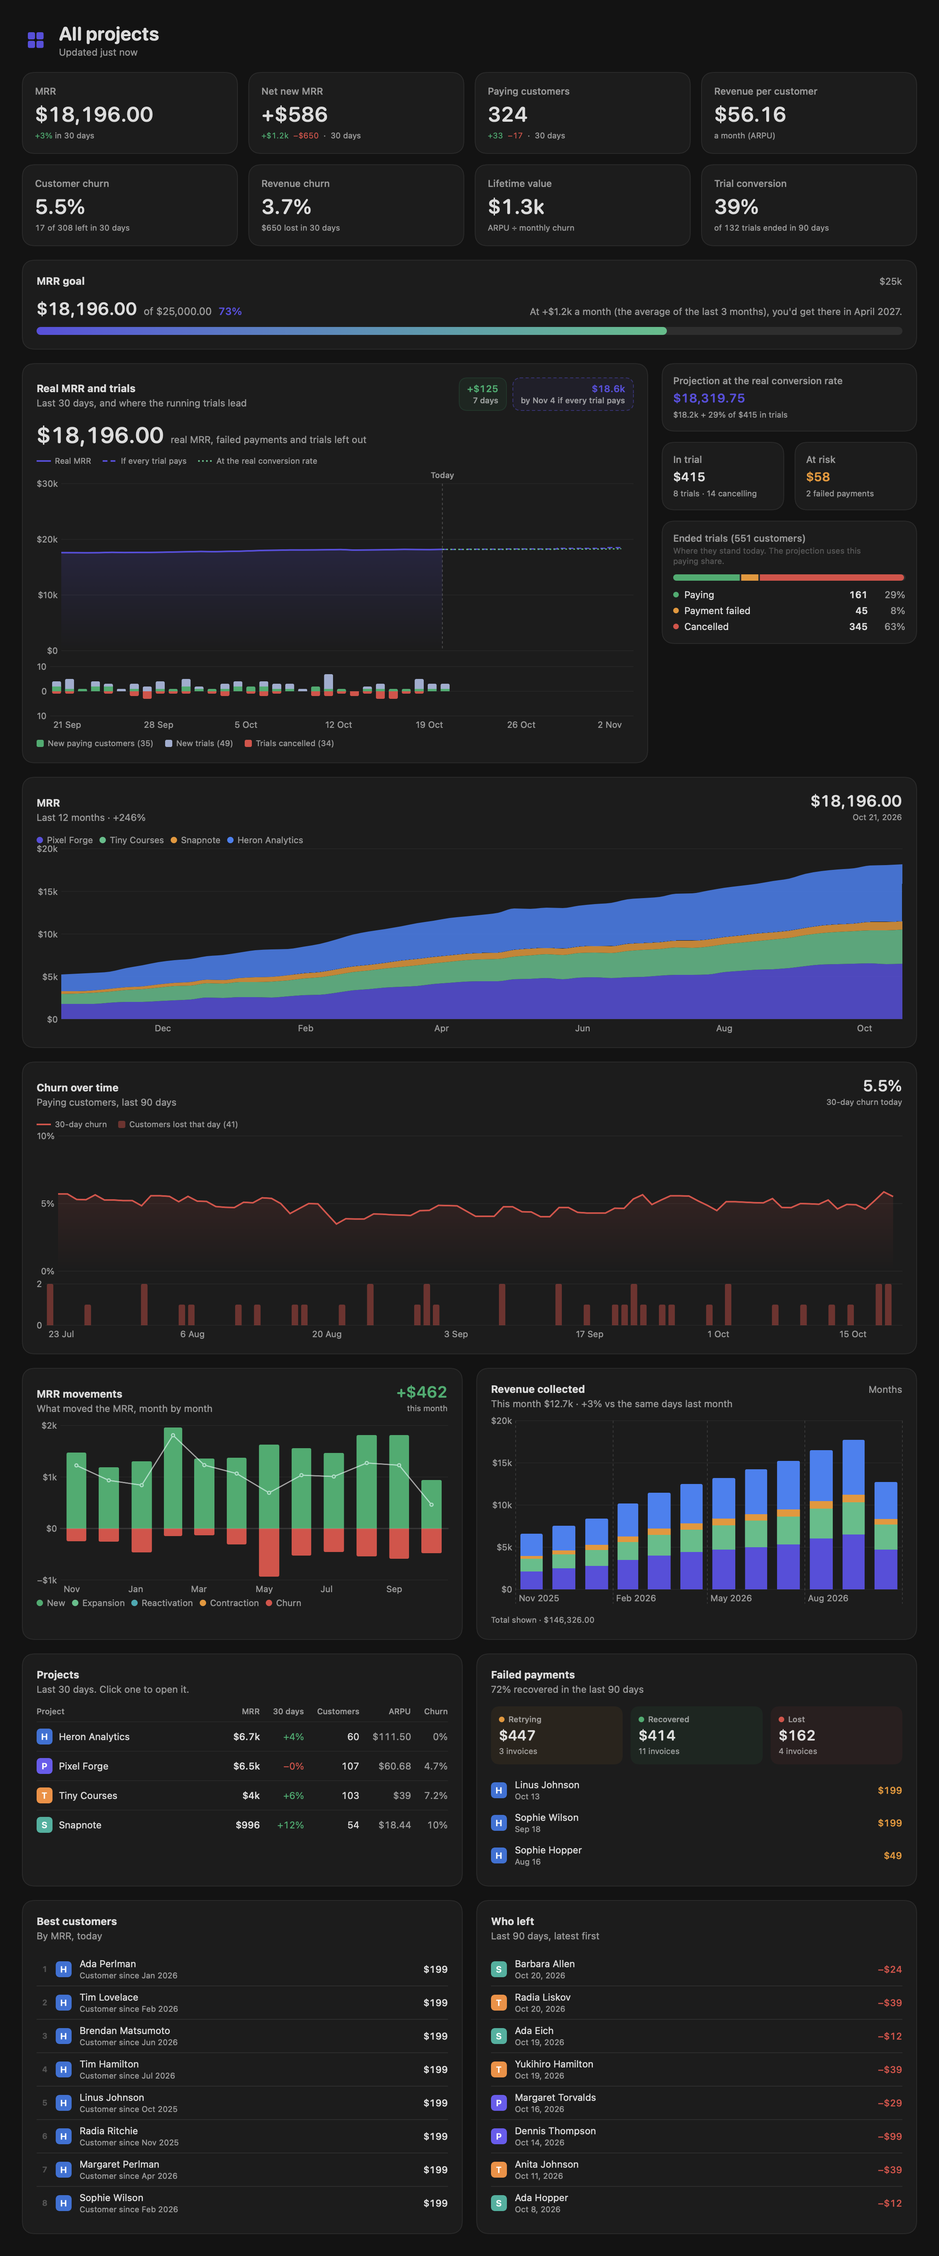
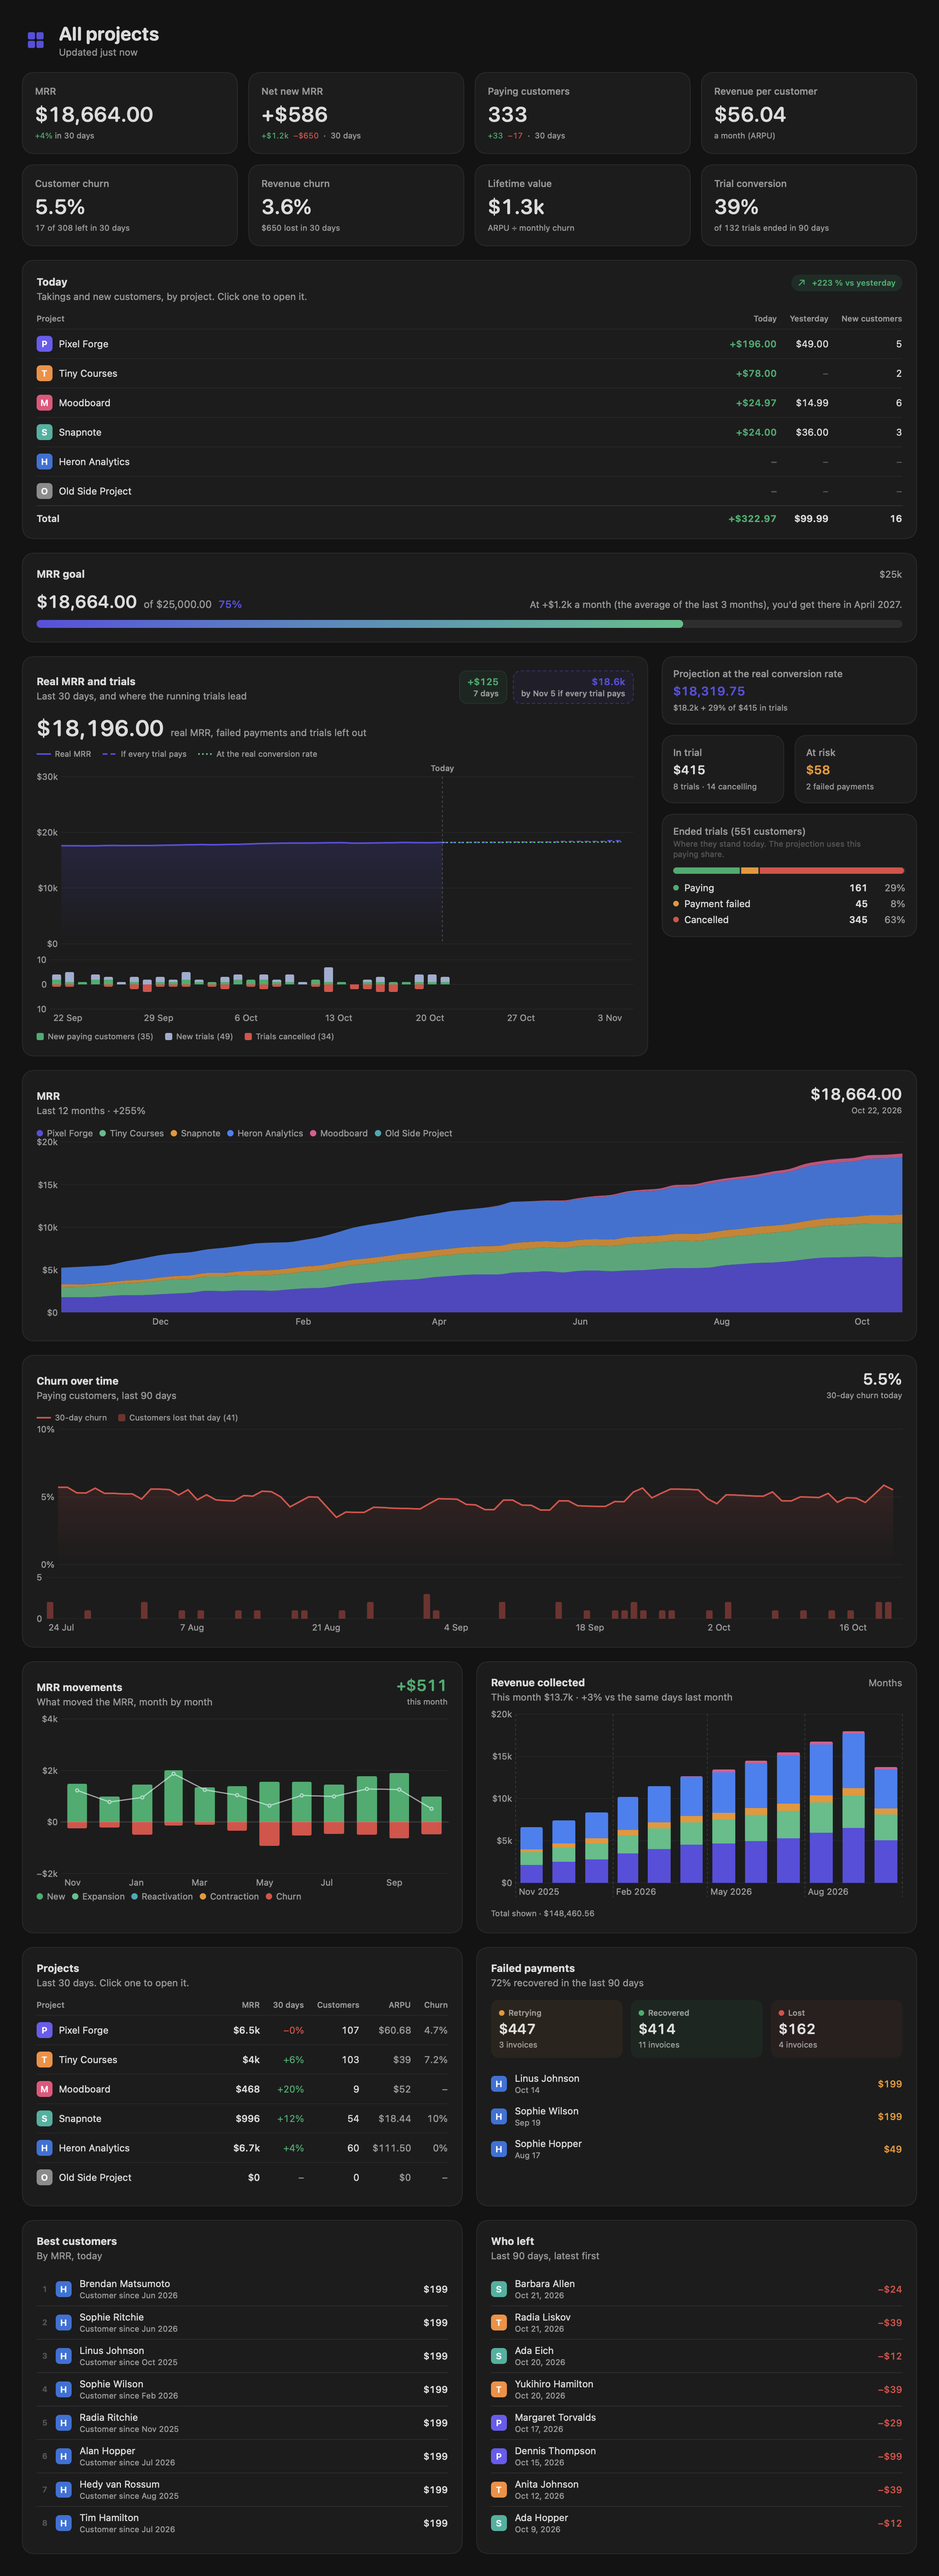
Projects by takings everywhere, quiet projects folded, RevenueCat in the dashboard's history, new screenshots

diff --git a/Sources/Model.swift b/Sources/Model.swift
@@ -144,6 +144,11 @@ final class Model: ObservableObject {
     var mrrTotal: [String: Int] { sum(active.compactMap { mrr[$0.id] }) }
     var active: [Account] { accounts.filter(\.enabled) }
 
+    /// Nothing in 30 days, no new customer today and no MRR: folded away in the panel until it moves.
+    func isQuiet(_ a: Account) -> Bool {
+        convert(monthTotal(a)) == 0 && newCustomers(a, 0) == 0 && convert(mrr[a.id] ?? [:]) == 0 && errors[a.id] == nil
+    }
+
     /// The watched projects, most money first: the ones that moved today or yesterday, by today's takings, then
     /// yesterday's, then the last 30 days. Projects with nothing go to the bottom, in the settings' order.
     var byTakings: [Account] {
@@ -363,6 +368,31 @@ final class Model: ObservableObject {
         if prefs.kinds.contains(.sale) { notify(act, a) }
     }
 
+    /// RevenueCat projects' MRR day by day over a year, minor units of the display currency: the dashboard's curve.
+    @Published var rcMrr: [UUID: [Date: Int]] = [:]
+    private var rcHistoryRead: [UUID: Date] = [:]
+
+    /// A year of revenue and MRR from RevenueCat's charts, for the dashboard; read again after 10 minutes.
+    private func loadRevenueCatHistory(_ a: Account, force: Bool) async {
+        let id = a.id.uuidString
+        if rcMrr[a.id] == nil, let cached = Disk.read("history/rc-\(id).json", as: RevenueCatHistory.self), cached.currency == currency {
+            rcMrr[a.id] = cached.mrr; revenue[a.id] = cached.revenue.mapValues { [currency: $0] }
+        }
+        if !force, let t = rcHistoryRead[a.id], Date().timeIntervalSince(t) < 600 { return }
+        guard let key = Keychain.load(a.id) else { return }
+        let c = RevenueCatClient(key: key), cur = currency
+        do {
+            let rev = try await c.daily("revenue", a.revenueCatProject, days: 366, currency: cur).mapValues { Int(($0 * 100).rounded()) }
+            let m = try await c.daily("mrr", a.revenueCatProject, days: 366, currency: cur).mapValues { Int(($0 * 100).rounded()) }
+            revenue[a.id] = rev.mapValues { [cur: $0] }
+            rcMrr[a.id] = m
+            rcHistoryRead[a.id] = Date()
+            if persist { Disk.write(RevenueCatHistory(currency: cur, revenue: rev, mrr: m), "history/rc-\(id).json") }
+        } catch {
+            errors[a.id] = error.localizedDescription
+        }
+    }
+
     /// Revenue and new customers for the last 30 days, then the MRR, subscribers and trials, in the display currency.
     private func refreshRevenueCat(_ a: Account) async {
         guard let key = Keychain.load(a.id) else { errors[a.id] = String(localized: "Key not found in the Keychain"); return }
@@ -373,7 +403,10 @@ final class Model: ObservableObject {
             signups[a.id] = (try? await c.daily("customers_new", p, days: 2, currency: cur))?.mapValues { Int($0.rounded()) } ?? [:]
             let o = try await c.overview(p, currency: cur)
             var m = MrrSnapshot()
-            m.real = [cur: Int(((o["mrr"] ?? 0) * 100).rounded())]
+            // The overview rounds the MRR to whole units: the MRR chart's last day has the cents
+            let chart = (try? await c.daily("mrr", p, days: 2, currency: cur)) ?? [:]
+            let mrrValue = chart.max(by: { $0.key < $1.key })?.value ?? o["mrr"] ?? 0
+            m.real = [cur: Int((mrrValue * 100).rounded())]
             m.activeCount = Int(o["active_subscriptions"] ?? 0)
             m.trialCount = Int(o["active_trials"] ?? 0)
             mrr[a.id] = m.real
@@ -431,6 +464,7 @@ final class Model: ObservableObject {
         rebuildDashboard()
         await refreshRates()
         for a in active {
+            if a.isRevenueCat { await loadRevenueCatHistory(a, force: force); rebuildDashboard(); continue }
             guard let c = client(a) else { continue }
             let id = a.id.uuidString
             do {
@@ -468,7 +502,7 @@ final class Model: ObservableObject {
     /// One project's MRR now, from the same subscriptions as the dashboard (on disk from the last run), so it's right
     /// from the first second; the menu's own figure until they're read.
     func mrrNow(_ a: Account) -> Int {
-        guard let f = facts[a.id] else { return convert(mrr[a.id] ?? [:]) }
+        guard !a.isRevenueCat, let f = facts[a.id] else { return convert(mrr[a.id] ?? [:]) }
         let now = Date()
         return f.filter { $0.pays(at: now) }.reduce(0) { $0 + convert($1.monthly, $1.currency) }
     }
@@ -486,8 +520,10 @@ final class Model: ObservableObject {
 
     func rebuildDashboard() {
         let picked = dashboardAccounts
-        dashboard = Analytics.build(accounts: picked, all: picked, facts: facts, revenue: revenue,
-                                    failed: failedInvoices, months: dashboardMonths, convert: convert)
+        let rc = Dictionary(uniqueKeysWithValues: picked.filter(\.isRevenueCat).map { a in
+            (a.id, Analytics.Outside(mrr: rcMrr[a.id] ?? [:], subscribers: mrrDetail[a.id]?.activeCount ?? 0)) })
+        dashboard = Analytics.build(accounts: picked, all: byTakings.filter { a in picked.contains { $0.id == a.id } }, facts: facts, revenue: revenue,
+                                    failed: failedInvoices, months: dashboardMonths, convert: convert, outside: rc)
         projection = Projection.build(accounts: picked, facts: facts, snapshots: mrrDetail, convert: convert)
     }
 

diff --git a/Sources/Views.swift b/Sources/Views.swift
@@ -17,6 +17,7 @@ struct MenuPanel: View {
     /// The header unfolds into today's figures project by project; remembered between openings.
     @AppStorage("todayOpen") private var todayOpen = false
     @State private var sectionsHeight: CGFloat = 600
+    @AppStorage("quietOpen") private var quietOpen = false
 
     var body: some View {
         // The dashboard's look: white cards on a light grey background
@@ -60,12 +61,19 @@ struct MenuPanel: View {
                         Text("MRR").font(.caption).foregroundStyle(.tertiary)
                     }
                     .padding(.horizontal, 14).padding(.top, 12).padding(.bottom, 4)
-                    ForEach(Array(model.byTakings.enumerated()), id: \.element.id) { i, a in
+                    let quiet = model.byTakings.filter(model.isQuiet)
+                    let shown = model.byTakings.filter { !model.isQuiet($0) } + (quietOpen ? quiet : [])
+                    ForEach(Array(shown.enumerated()), id: \.element.id) { i, a in
                         if i > 0 { Hairline().padding(.leading, 54) }
                         ProjectRow(model: model, account: a)
                             .contentShape(Rectangle())
                             .onTapGesture { openDashboard(a.id) }
                             .help(String(localized: "Open this project in the dashboard"))
+                    }
+                    if !quiet.isEmpty {
+                        Hairline().padding(.leading, 14)
+                        QuietToggle(model: model, quiet: quiet, open: $quietOpen)
+                            .font(.caption).padding(.horizontal, 14).padding(.vertical, 9)
                     }
                 }
                 .padding(.bottom, 4)
@@ -484,8 +492,11 @@ struct WeekChart: View {
 /// Today, yesterday and new customers for each project: what the header's totals are made of.
 struct TodayBreakdown: View {
     @ObservedObject var model: Model
+    @AppStorage("quietOpen") private var quietOpen = false
     var body: some View {
-        let rows = model.byTakings
+        let all = model.byTakings
+        let quiet = all.filter(model.isQuiet)
+        let rows = all.filter { !model.isQuiet($0) } + (quietOpen ? quiet : [])
         Grid(alignment: .trailing, horizontalSpacing: 14, verticalSpacing: 8) {
             GridRow {
                 Text("Project").gridColumnAlignment(.leading)
@@ -510,7 +521,36 @@ struct TodayBreakdown: View {
                 }
                 .font(.caption).monospacedDigit()
             }
+            if !quiet.isEmpty {
+                GridRow {
+                    QuietToggle(model: model, quiet: quiet, open: $quietOpen, size: 16).gridCellColumns(4)
+                }
+                .font(.caption)
+            }
         }
+    }
+}
+
+/// The projects with nothing in 30 days, folded into one line; one that sells comes out by itself.
+struct QuietToggle: View {
+    @ObservedObject var model: Model
+    let quiet: [Account]
+    @Binding var open: Bool
+    var size: CGFloat = 18
+
+    var body: some View {
+        HStack(spacing: 7) {
+            HStack(spacing: -size * 0.3) {
+                ForEach(quiet.prefix(5)) { a in AccountIcon(model: model, account: a, size: size) }
+            }
+            Text(String(format: String(localized: quiet.count > 1 ? "%lld quiet projects" : "%lld quiet project"), quiet.count))
+                .foregroundStyle(.secondary)
+            Spacer()
+            Image(systemName: open ? "chevron.up" : "chevron.down").font(.system(size: 9, weight: .semibold)).foregroundStyle(.tertiary)
+        }
+        .contentShape(Rectangle())
+        .onTapGesture { withAnimation(.easeOut(duration: 0.15)) { open.toggle() } }
+        .help(String(localized: "Nothing collected in 30 days, no MRR. A project that sells leaves this list by itself."))
     }
 }
 

diff --git a/Sources/History.swift b/Sources/History.swift
@@ -159,9 +159,18 @@ struct DashboardData {
 enum Analytics {
     private struct Item { let account: UUID; let key: String; let monthly: Int; let fact: SubFact }
 
+    /// A project whose subscriptions live outside Stripe (RevenueCat): its MRR by day and its subscribers now.
+    struct Outside {
+        let mrr: [Date: Int]
+        let subscribers: Int
+        /// The MRR on the last known day at or before `t`.
+        func at(_ t: Date) -> Int { mrr.filter { $0.key <= t }.max(by: { $0.key < $1.key })?.value ?? 0 }
+    }
+
     /// `accounts` is what the window looks at (one project or all); `all` feeds the per-project table.
     static func build(accounts: [Account], all: [Account], facts: [UUID: [SubFact]], revenue: [UUID: [Date: [String: Int]]],
-                      failed: [UUID: [FailedInvoice]], months: Int, convert: (Int, String) -> Int, now: Date = Date()) -> DashboardData {
+                      failed: [UUID: [FailedInvoice]], months: Int, convert: (Int, String) -> Int,
+                      outside: [UUID: Outside] = [:], now: Date = Date()) -> DashboardData {
         func items(_ accs: [Account]) -> [Item] {
             accs.flatMap { a in (facts[a.id] ?? []).map { Item(account: a.id, key: a.id.uuidString + "|" + (($0.email?.isEmpty == false ? $0.email : nil) ?? $0.customer), monthly: convert($0.monthly, $0.currency), fact: $0) } }
         }
@@ -176,6 +185,7 @@ enum Analytics {
             let t = now.addingTimeInterval(-Double(w) * 7 * day)
             var per: [UUID: Int] = [:]
             for it in list where it.fact.pays(at: t) { per[it.account, default: 0] += it.monthly }
+            for (id, o) in outside { per[id] = o.at(t) }
             for a in accounts { d.series.append(.init(date: t, account: a.id, value: per[a.id] ?? 0)) }
         }
 
@@ -188,6 +198,11 @@ enum Analytics {
         }
         d.last30 = movement(list, now.addingTimeInterval(-30 * day), now)
         d.last90 = movement(list, now.addingTimeInterval(-90 * day), now)
+        // RevenueCat projects count in the MRR and its growth; their customers' moves stay in RevenueCat
+        for o in outside.values {
+            d.last30.startMrr += o.at(now.addingTimeInterval(-30 * day)); d.last30.endMrr += o.at(now)
+            d.last30.endCustomers += o.subscribers
+        }
         let full = d.months.dropLast().suffix(3)
         if !full.isEmpty { d.pace = full.reduce(0) { $0 + $1.move.net } / full.count }
 
@@ -244,6 +259,12 @@ enum Analytics {
         }
 
         for a in all {
+            if let o = outside[a.id] {
+                let start = o.at(now.addingTimeInterval(-30 * day)), end = o.at(now)
+                d.projects.append(.init(id: a.id, mrr: end, growth: start > 0 ? Double(end - start) / Double(start) : nil,
+                                        customers: o.subscribers, churn: nil, arpu: o.subscribers > 0 ? end / o.subscribers : 0))
+                continue
+            }
             let m = movement(items([a]), now.addingTimeInterval(-30 * day), now)
             d.projects.append(.init(id: a.id, mrr: m.endMrr,
                                     growth: m.startMrr > 0 ? Double(m.endMrr - m.startMrr) / Double(m.startMrr) : nil,

diff --git a/Sources/Demo.swift b/Sources/Demo.swift
@@ -65,7 +65,40 @@ extension Model {
         m.lastPoll = now.addingTimeInterval(-4)
         demoHistory(m, accounts, prices: [[2900, 4900, 9900], [3900], [1200, 2400], [4900, 19900]],
                     signupsPerWeek: [7, 3, 4, 1.4], churn: [0.035, 0.06, 0.05, 0.02], trials: [true, false, true, false])
+        demoApps(m)
         return m
+    }
+
+    /// A mobile app read through RevenueCat, and a project with nothing going on, folded away in the panel.
+    private static func demoApps(_ m: Model) {
+        var app = Account(name: "Moodboard", emoji: "📱", currency: "usd")
+        app.revenueCatProject = "projdemo"
+        app.useLogo = true
+        m.logos[app.id] = letterIcon("M", NSColor(red: 0.93, green: 0.30, blue: 0.48, alpha: 1))
+        var daily: [Date: [String: Int]] = [:], mrr: [Date: Int] = [:], revenue: [Date: [String: Int]] = [:]
+        for i in 0..<366 {
+            let d = m.day(i)
+            // Started six months ago, growing since
+            let age = max(0, 180 - i)
+            mrr[d] = age * 260
+            let sale = age > 0 ? (i * 37 % 5 == 0 ? 0 : 499 + (i * 53 % 4) * 500) : 0
+            if sale > 0 { revenue[d] = ["usd": sale]; if i < 30 { daily[d] = ["usd": sale] } }
+        }
+        daily[m.day(0)] = ["usd": 2497]; daily[m.day(1)] = ["usd": 1499]
+        m.daily[app.id] = daily
+        m.revenue[app.id] = revenue
+        m.rcMrr[app.id] = mrr
+        m.mrr[app.id] = ["usd": mrr[m.day(0)] ?? 0]
+        var d = MrrSnapshot(); d.real = m.mrr[app.id]!; d.activeCount = 9; d.trialCount = 3
+        m.mrrDetail[app.id] = d
+        m.signups[app.id] = [m.day(0): 6, m.day(1): 4]
+        var quiet = Account(name: "Old Side Project", emoji: "💳", stripeID: "acct_demoquiet", currency: "usd")
+        quiet.useLogo = true
+        m.logos[quiet.id] = letterIcon("O", NSColor(white: 0.55, alpha: 1))
+        m.daily[quiet.id] = [:]
+        m.mrr[quiet.id] = [:]
+        m.facts[quiet.id] = []
+        m.accounts += [app, quiet]
     }
 
     /// 18 months of made-up subscribers per project, growing, paying and leaving, with their payments and failed invoices.

diff --git a/Sources/Dashboard.swift b/Sources/Dashboard.swift
@@ -80,7 +80,7 @@ struct DashboardSidebar: View {
                 } only: {}
             }
             Section("Projects") {
-                ForEach(model.active) { a in
+                ForEach(model.byTakings) { a in
                     SidebarRow(checked: !model.dashboardExcluded.contains(a.id), partly: false, onlyButton: model.active.count > 1) {
                         AccountIcon(model: model, account: a, size: 18)
                     } label: {
@@ -805,7 +805,8 @@ struct ChurnedCard: View {
 struct ProjectsCard: View {
     @ObservedObject var model: Model
     var body: some View {
-        let rows = model.dashboard.projects.sorted { $0.mrr > $1.mrr }
+        // Already in the panel's order: most money first
+        let rows = model.dashboard.projects
         Card(title: String(localized: "Projects"), subtitle: String(localized: "Last 30 days. Click one to open it.")) {
             Grid(alignment: .trailing, horizontalSpacing: 16, verticalSpacing: 0) {
                 GridRow {

diff --git a/Sources/RevenueCat.swift b/Sources/RevenueCat.swift
@@ -89,3 +89,10 @@ extension Optional {
         return await f(v)
     }
 }
+
+/// What the dashboard keeps of a RevenueCat project between launches.
+struct RevenueCatHistory: Codable {
+    let currency: String
+    let revenue: [Date: Int]
+    let mrr: [Date: Int]
+}

diff --git a/README.md b/README.md
@@ -14,7 +14,7 @@ Free, open source, no server. Your keys never leave your Mac.</p>
 <p align="center">
   <picture>
     <source media="(prefers-color-scheme: dark)" srcset="docs/panel-dark.png">
-    <img src="docs/panel-light.png" width="400" alt="PulseMRR menu bar panel: today's takings with yesterday, new customers and MRR, failed payments, one row per project with a sparkline and its MRR, and the latest activity">
+    <img src="docs/panel-light.png" width="400" alt="PulseMRR menu bar panel: today's takings with yesterday, new customers and MRR, the same figures project by project, failed payments, one row per project with a sparkline and its MRR, and the latest activity">
   </picture>
 </p>
 
@@ -22,10 +22,10 @@ Free, open source, no server. Your keys never leave your Mac.</p>
 
 - **A notification for what matters**, each one switchable: new sale, new subscriber, new customer, trial started, trial converted, cancellation scheduled, subscription ended, failed payment, refund, dispute, payout. Money coming in plays a cash register sound. Notifications can stay on screen until you dismiss them.
 - **Every Stripe account in one place.** Add as many as you run, each with its project's logo (taken from your Stripe branding or your website) or an emoji. Drag to reorder.
-- **Your mobile apps too, through RevenueCat.** Add a RevenueCat project with a secret API v2 key (read only on Charts & metrics and Project configuration): its revenue, new customers, MRR, subscribers and trials sit next to your Stripe projects, with the app's icon, and a rise in the day's revenue comes as a sale notification (RevenueCat is read every 2 minutes).
+- **Your mobile apps too, through RevenueCat.** Add a RevenueCat project with a secret API v2 key (read only on Charts & metrics and Project configuration): its revenue, new customers, MRR, subscribers and trials sit next to your Stripe projects, with the app's icon, and a rise in the day's revenue comes as a sale notification (RevenueCat is read every 2 minutes). Their revenue and MRR also count in the dashboard's charts.
 - **Today at a glance:** the day's takings, yesterday, today's new customers and your total MRR, with today's amount and new customers right in the menu bar if you want them.
 - **Failed payments on one line.** Expand it to see who failed and open each one in Stripe.
-- **One row per project:** today's takings, new customers, a 30 day sparkline and its MRR. Hover for the details.
+- **One row per project, most money first:** today's takings, new customers, a 30 day sparkline and its MRR. Hover for the details. Projects with nothing in 30 days fold into one line, and come back by themselves as soon as they sell.
 - **MRR you can trust.** Only active subscriptions count. Past due ones are shown as at risk, trials and scheduled cancellations are kept apart, so a failing card never inflates the number.
 - **One currency.** Accounts in dollars and euros add up in the currency you pick (euro, dollar, pound, Swiss franc, Canadian dollar), at the day's ECB rate.
 - **A daily recap** at the hour you choose: the day's total against yesterday, sales, new subscribers, cancellations, and your best project.
